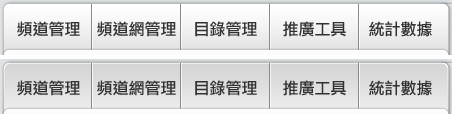
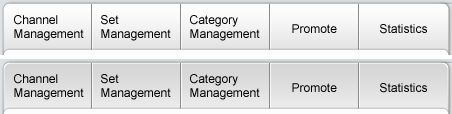
english menu
git-svn-id: https://everest.teltel.com:8443/repos/misc/web/nnvmso@1964 a0a5f996-2bb4-401c-8778-395c3c01700f

diff --git a/war/stylesheets/cms.css b/war/stylesheets/cms.css
@@ -23,20 +23,70 @@ body{ background:url(/images/cms/bg.jpg) top left repeat-x #dfe2e4; padding:0; m
 .header .sg{ background:url(/images/cms/icon_sg.png) no-repeat; width:38px; height:56px; display:block; float:left}
 .header img{ height: 65px; }
 
-.menuA:hover , .menuA_active{ background:url(/images/cms/menu.png) no-repeat 0 0; width:90px; height:55px; display:block;}
-.menuA{background:url(/images/cms/menu.png) no-repeat 0 -59px; width:90px; height:55px; display:block; }
-.menuB:hover , .menuB_active{background:url(/images/cms/menu.png) no-repeat -90px 0; width:89px; height:55px; display:block;}
-.menuB{background:url(/images/cms/menu.png) no-repeat -90px -59px; width:89px; height:55px;  display:block;}
+.menuA:hover, .menuA_active {
+  background: url(/images/cms/menu.png) no-repeat 0 0;
+  width:      90px;
+  height:     55px;
+  display:    block;
+}
+.menuA {
+  background: url(/images/cms/menu.png) no-repeat 0 -59px;
+  width:90px;
+  height:55px;
+  display:block;
+}
+.menuB:hover, .menuB_active {
+  background: url(/images/cms/menu.png) no-repeat -90px 0;
+  width:      89px;
+  height:     55px;
+  display:    block;
+}
+.menuB {
+  background: url(/images/cms/menu.png) no-repeat -90px -59px;
+  width:      89px;
+  height:     55px;
+  display:    block;
+}
+.menuC:hover, .menuC_active {
 /*
-.menuC:hover , .menuC_active{background:url(/images/cms/menu.png) no-repeat -179px 0; width:89px; height:55px; display:block;}
+  background: url(/images/cms/menu.png) no-repeat -179px 0;
+  width:      89px;
+  height:     55px;
+  display:    block;
 */
-.menuC{background:url(/images/cms/menu.png) no-repeat -179px -59px; width:89px; height:55px; display:block; }
-.menuD:hover , .menuD_active{background:url(/images/cms/menu.png) no-repeat -268px 0; width:89px; height:55px; display:block;}
-.menuD{background:url(/images/cms/menu.png) no-repeat -268px -59px; width:89px; height:55px; display:block;}
+}
+.menuC {
+  background: url(/images/cms/menu.png) no-repeat -179px -59px;
+  width:      89px;
+  height:     55px;
+  display:    block;
+}
+.menuD:hover, .menuD_active {
+  background: url(/images/cms/menu.png) no-repeat -268px 0;
+  width:      89px;
+  height:     55px;
+  display:    block;
+}
+.menuD {
+  background: url(/images/cms/menu.png) no-repeat -268px -59px;
+  width:89px;
+  height:55px;
+  display:block;
+}
+.menuE:hover, .menuE_active {
 /*
-.menuE:hover , .menuE_active{background:url(/images/cms/menu.png) no-repeat -357px 0; width:95px; height:55px; display:block;}
+  background: url(/images/cms/menu.png) no-repeat -357px 0;
+  width:      95px;
+  height:     55px;
+  display:    block;
 */
-.menuE{background:url(/images/cms/menu.png) no-repeat -357px -59px; width:95px; height:55px; display:block; }
+}
+.menuE {
+  background: url(/images/cms/menu.png) no-repeat -357px -59px;
+  width:      95px;
+  height:     55px;
+  display:    block;
+}
 
 .content{ width:1000px; margin:0 auto; }
 

diff --git a/war/javascripts/cms/common.js b/war/javascripts/cms/common.js
@@ -132,6 +132,15 @@ var cms = {
     $('.header .logout').css('background', 'url(' + $('#image_header_logout').text() + ') no-repeat');
     $('.header .setup').css('background', 'url(' + $('#image_header_setup').text() + ') no-repeat');
     $('.header .sg').css('background', 'url(' + $('#image_header_sg').text() + ') no-repeat');
+    var style =
+      '.menuA, .menuA:hover, .menuA_active, ' +
+      '.menuB, .menuB:hover, .menuB_active, ' +
+      '.menuC, .menuC:hover, .menuC_active, ' +
+      '.menuD, .menuD:hover, .menuD_active, ' +
+      '.menuE, .menuE:hover, .menuE_active {' +
+      '  background-image: url(' + $('#image_menu').text() + ');' +
+      '}'
+    $('<style/>').text(style).appendTo('head');
     
     $.ajaxSetup ({
       // Disable caching of AJAX responses
